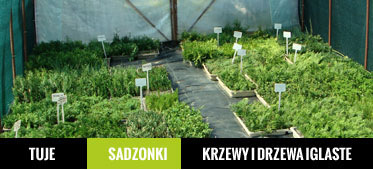
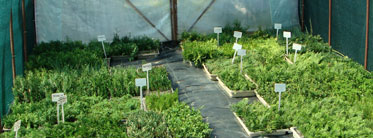
Sliding text working

diff --git a/public/css/style.css b/public/css/style.css
@@ -191,6 +191,30 @@ p#telephone-top span{
     overflow: hidden;
 }
 
+    div.scrollingtext-container{
+        position:relative;
+        height:30px;
+        width:100%;
+        display:block;
+        overflow:hidden;
+        background: #000;
+    }
+   .scrollingtext{
+        position:absolute;
+        white-space:nowrap;
+        font-family:Oswald, sans-serif;
+        font-size:14px;
+        font-weight:bold;
+        color:#fff;
+        line-height: 30px;
+    }
+    
+    div.scrollingtext-container ul li {
+        display: inline-block;
+        padding: 0 15px;
+        text-transform: uppercase;
+    }
+
 /* ============================= main content ====================== */
 
 #content-bg {

diff --git a/public/js/jquery.scripts.js b/public/js/jquery.scripts.js
@@ -2,6 +2,16 @@
 
 $(document).ready(function(){
 
+ $('.scrollingtext').bind('marquee', function() {
+        var ob = $(this);
+        var tw = ob.width();
+        var ww = ob.parent().width();
+        ob.css({ right: -tw });
+        ob.animate({ right: ww }, 20000, 'linear', function() {
+            ob.trigger('marquee');
+        });
+    }).trigger('marquee');
+
     $('span.slide-down').click(function(){
         var ulList = $(this).parent('.product-name').children('ul');
         ulList.toggle('slow',function(){

diff --git a/public/css/demo.css b/public/css/demo.css
@@ -38,7 +38,7 @@ pre + h2{
 
 #banner-fade,
 #banner-slide{
-	margin-bottom: 60px;
+	margin-bottom: 0px;
 }
 
 ul.bjqs-controls.v-centered li a{

diff --git a/template/layout.php b/template/layout.php
@@ -68,7 +68,7 @@
                                     jQuery(document).ready(function($) {
 
                                     $('#banner-fade').bjqs({
-                                        height      : 170,
+                                        height      : 138,
                                         width       : 375,
                                         responsive  : true,
                                         showcontrols : false,
@@ -78,6 +78,16 @@
 
                                     });
                                 </script>
+                                <div class="scrollingtext-container">
+                                    <div class="scrollingtext">
+                                        <ul>
+                                            <li>tuje</li>
+                                            <li>cis</li>
+                                            <li>drzewka iglaste</li>
+                                            <li>buk</li>
+                                        </ul>
+                                    </div>
+                                </div>
                             </div>
                             <div id="bottom">
                                 <h2>Szkółka drzewek i krzewów ozdobnych</h2>
